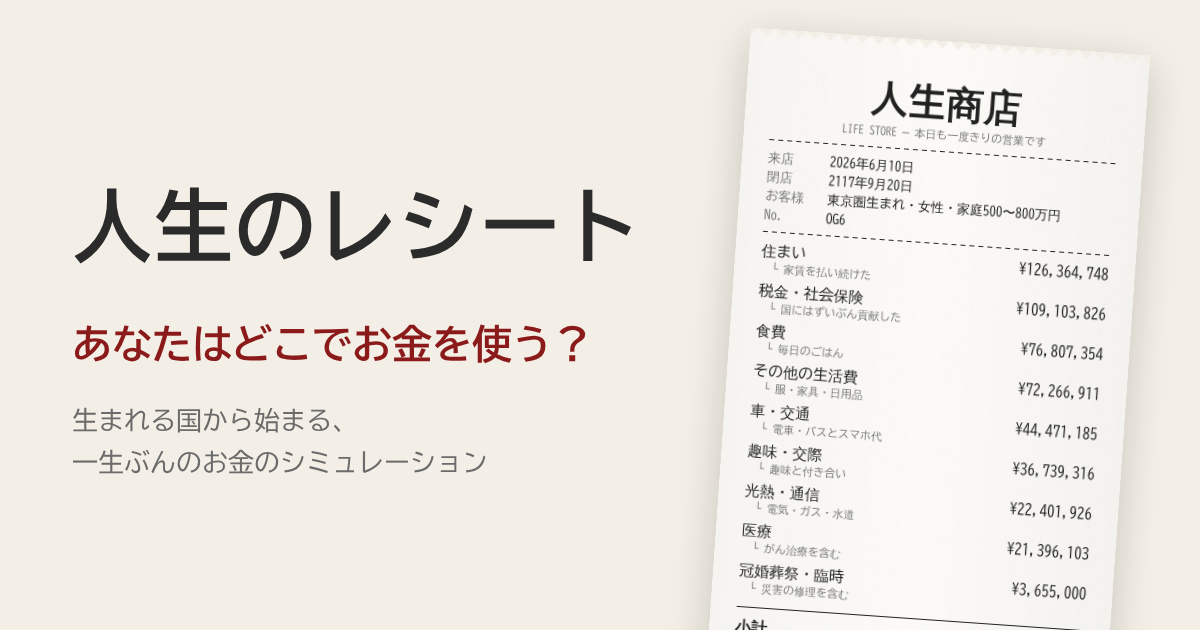
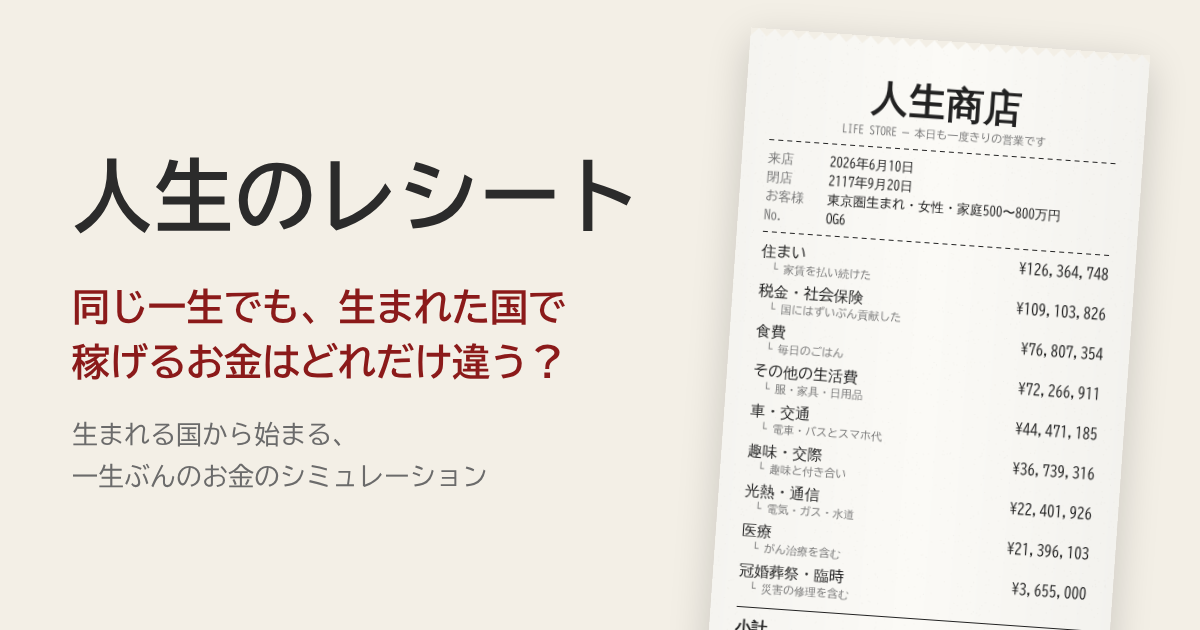
リンクのプレビュー画像と説明文の問いを、タイトル画面と同じものに揃える
Claude-Session: https://claude.ai/code/session_01P8h7G7H9Hz4F9jwmunJGJH

diff --git a/index.html b/index.html
@@ -7,7 +7,7 @@
     <title>人生のレシート</title>
     <meta name="description" content="日本・主要20か国・世界から生まれる場所を選び、統計データで一生ぶんのお金の流れを体験するシミュレーションゲーム。" />
     <meta property="og:title" content="人生のレシート" />
-    <meta property="og:description" content="あなたはどこでお金を使う？ 統計データで、一生ぶんのお金を体験する。" />
+    <meta property="og:description" content="同じ一生でも、生まれた国で稼げるお金はどれだけ違う？ 統計データで、一生ぶんのお金を体験する。" />
     <meta property="og:type" content="website" />
     <meta property="og:image" content="https://tomo-project-ivory.vercel.app/og.png" />
     <meta property="og:image:width" content="1200" />
